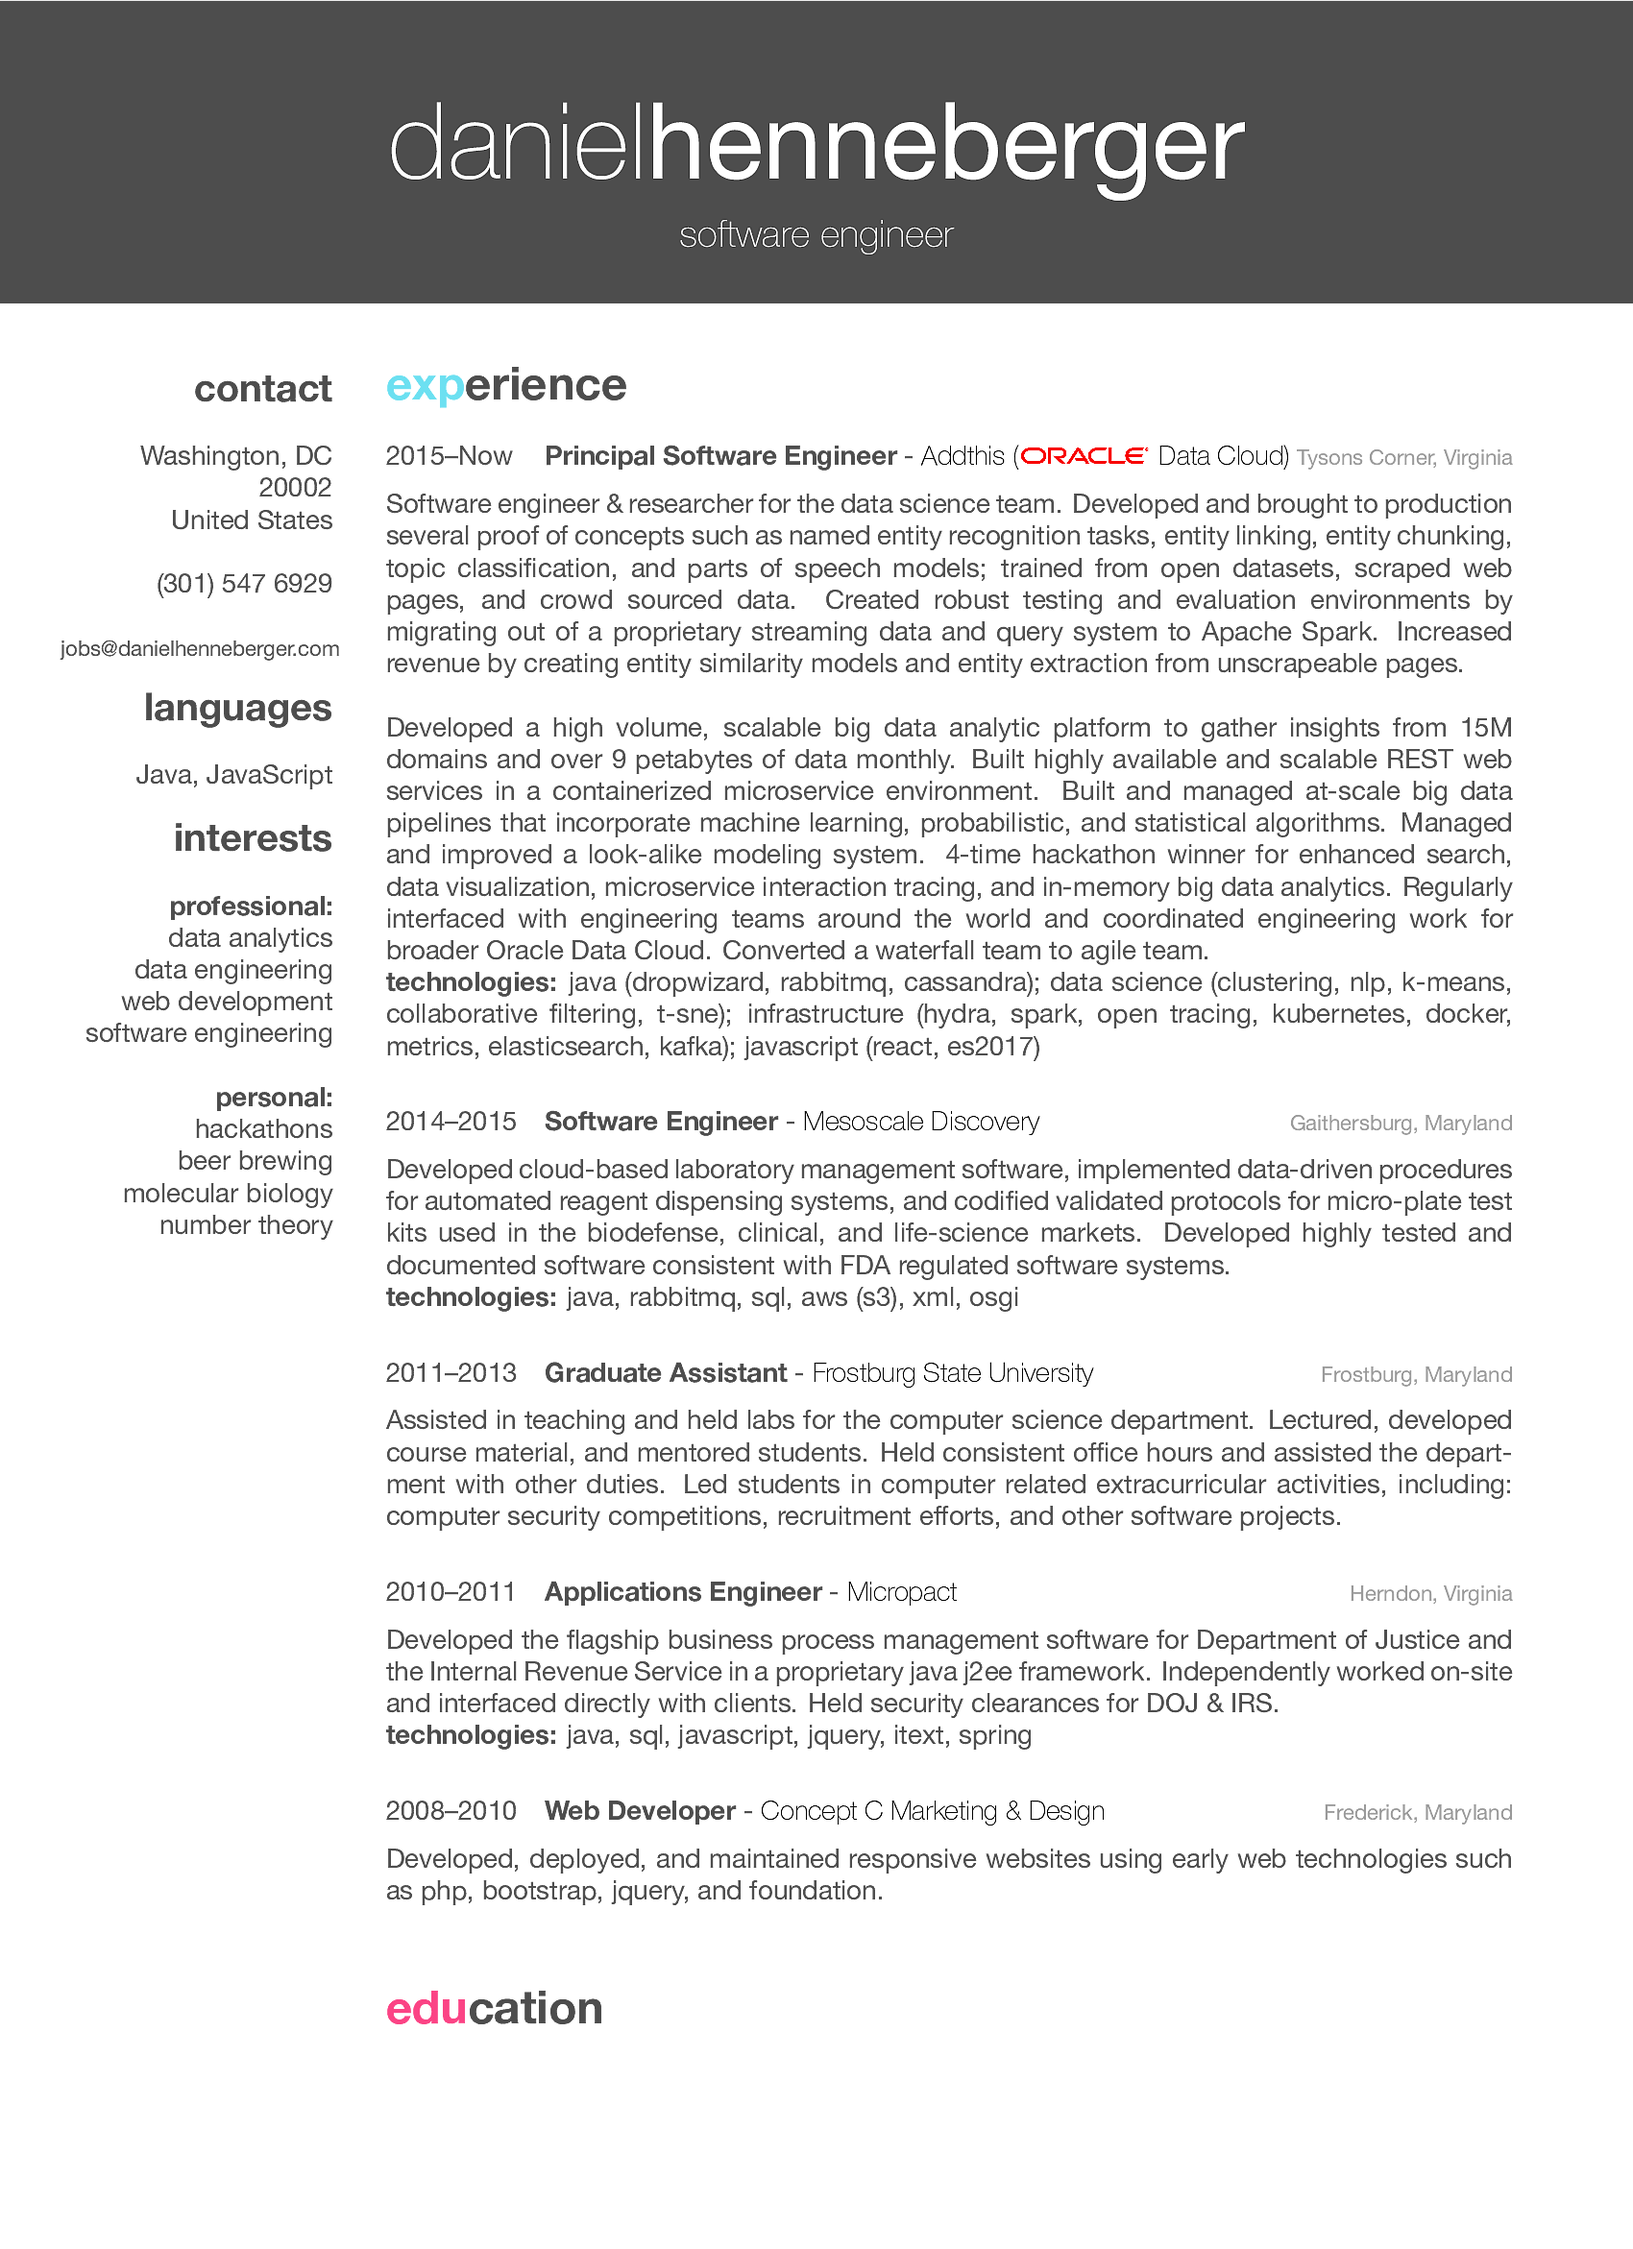
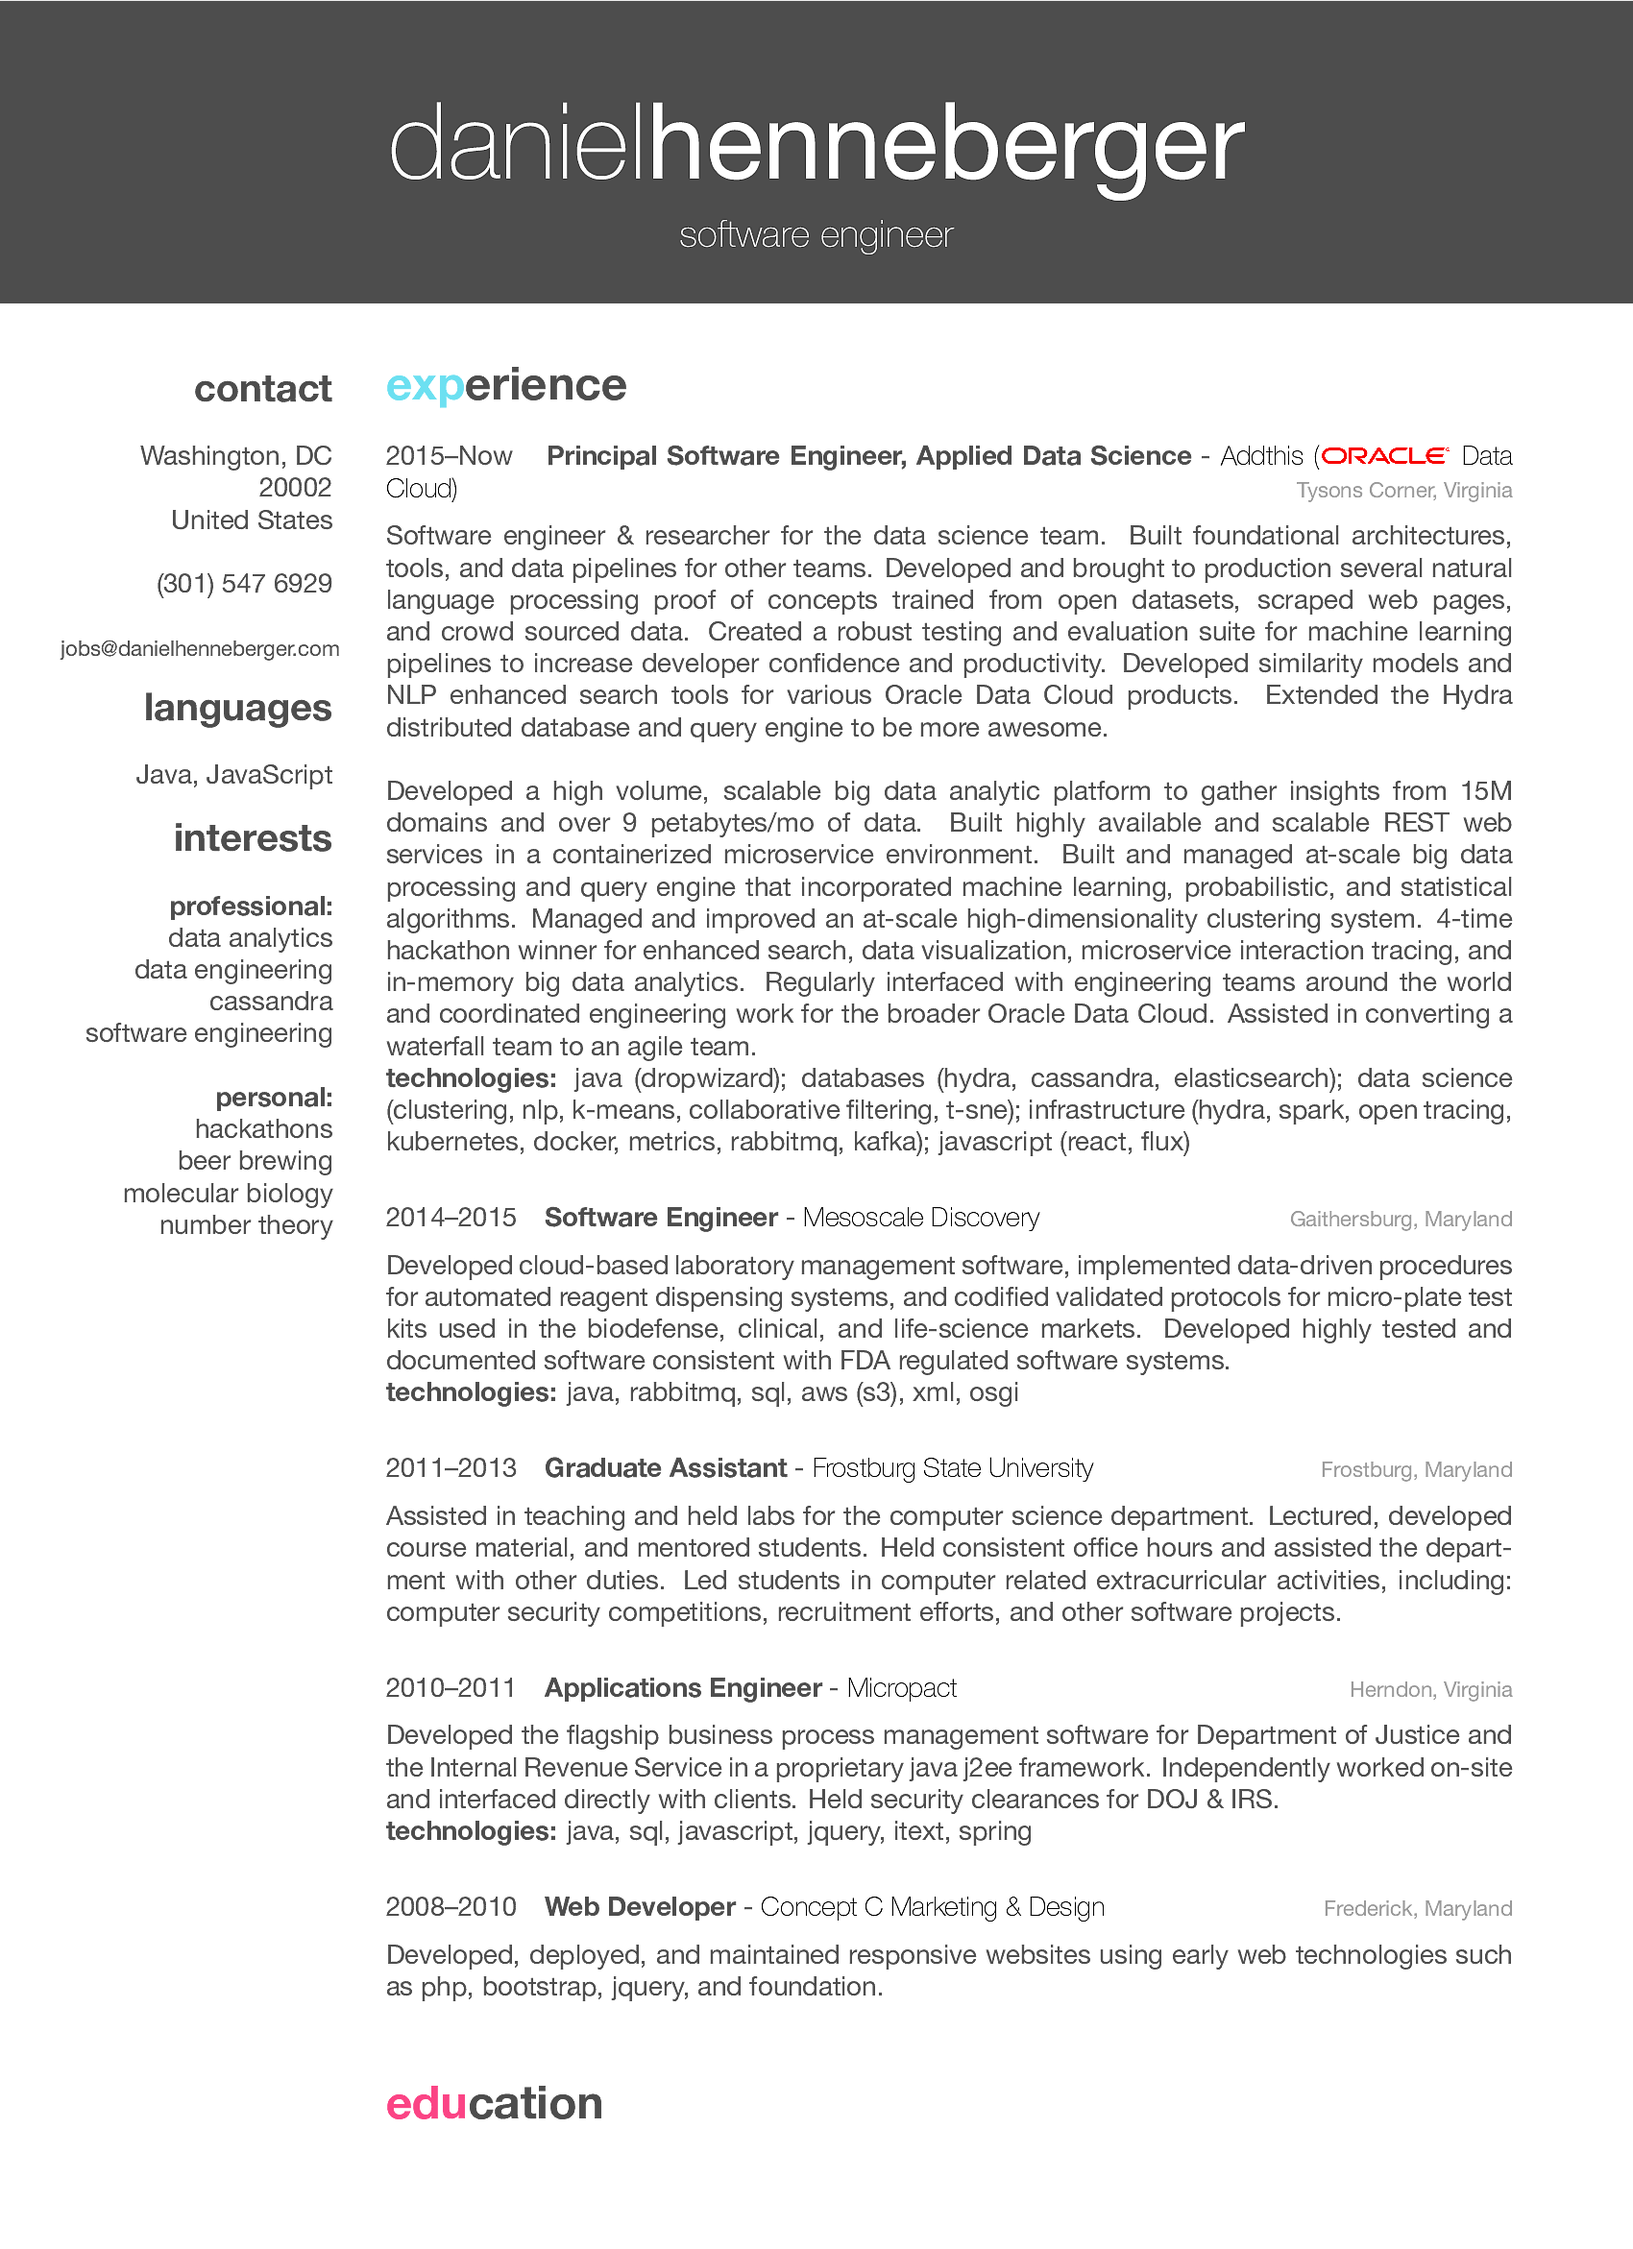
Emphasize building tools for other devs

Changed region(s): [[0.2182, 0.187, 0.9353, 0.9663], [0.1247, 0.4364, 0.1871, 0.4675]]

diff --git a/cv.tex b/cv.tex
@@ -40,7 +40,7 @@ Java, JavaScript
 \textbf{professional:}
 data analytics
 data engineering
-web development
+cassandra
 software engineering
 ~
 \textbf{personal:}
@@ -60,11 +60,11 @@ number theory
 {2015--Now}
 {\href{https://www.addthis.com/}{Addthis (\includegraphics[width=50pt]{500px-Oracle_logo.svg.png}  Data Cloud)}}
 {Tysons Corner, Virginia}
-{Principal Software Engineer}
+{Principal Software Engineer, Applied Data Science}
 {
-	Software engineer \& researcher for the data science team. Developed and brought to production several proof of concepts such as named entity recognition tasks, entity linking, entity chunking, topic classification, and parts of speech models; trained from open datasets, scraped web pages, and crowd sourced data. Created robust testing and evaluation environments by migrating out of a proprietary streaming data and query system to Apache Spark. Increased revenue by creating entity similarity models and entity extraction from unscrapeable pages.\\\\
-	Developed a high volume, scalable big data analytic platform to gather insights from 15M domains and over 9 petabytes of data monthly. Built highly available and scalable REST web services in a containerized microservice environment. Built and managed at-scale big data pipelines that incorporate machine learning, probabilistic, and statistical algorithms. Managed and improved a look-alike modeling system. 4-time hackathon winner for enhanced search, data visualization, microservice interaction tracing, and in-memory big data analytics. Regularly interfaced with engineering teams around the world and coordinated engineering work for broader Oracle Data Cloud. Converted a waterfall team to agile team.\\
-	\textbf{technologies:} java (dropwizard, rabbitmq, cassandra); data science (clustering, nlp, k-means, collaborative filtering, t-sne); infrastructure (hydra, spark, open tracing, kubernetes, docker, metrics, elasticsearch, kafka); javascript (react, es2017)
+	Software engineer \& researcher for the data science team. Built foundational architectures, tools, and data pipelines for other teams. Developed and brought to production several natural language processing proof of concepts trained from open datasets, scraped web pages, and crowd sourced data. Created a robust testing and evaluation suite for machine learning pipelines to increase developer confidence and productivity. Developed similarity models and NLP enhanced search tools for various Oracle Data Cloud products. Extended the Hydra distributed database and query engine to be more awesome. \\\\
+	Developed a high volume, scalable big data analytic platform to gather insights from 15M domains and over 9 petabytes/mo of data. Built highly available and scalable REST web services in a containerized microservice environment. Built and managed at-scale big data processing and query engine that incorporated machine learning, probabilistic, and statistical algorithms. Managed and improved an at-scale high-dimensionality clustering system. 4-time hackathon winner for enhanced search, data visualization, microservice interaction tracing, and in-memory big data analytics. Regularly interfaced with engineering teams around the world and coordinated engineering work for the broader Oracle Data Cloud. Assisted in converting a waterfall team to an agile team.\\
+	\textbf{technologies:} java (dropwizard); databases (hydra, cassandra, elasticsearch); data science (clustering, nlp, k-means, collaborative filtering, t-sne); infrastructure (hydra, spark, open tracing, kubernetes, docker, metrics, rabbitmq, kafka); javascript (react, flux)
 }
 \entry
 {2014--2015}
